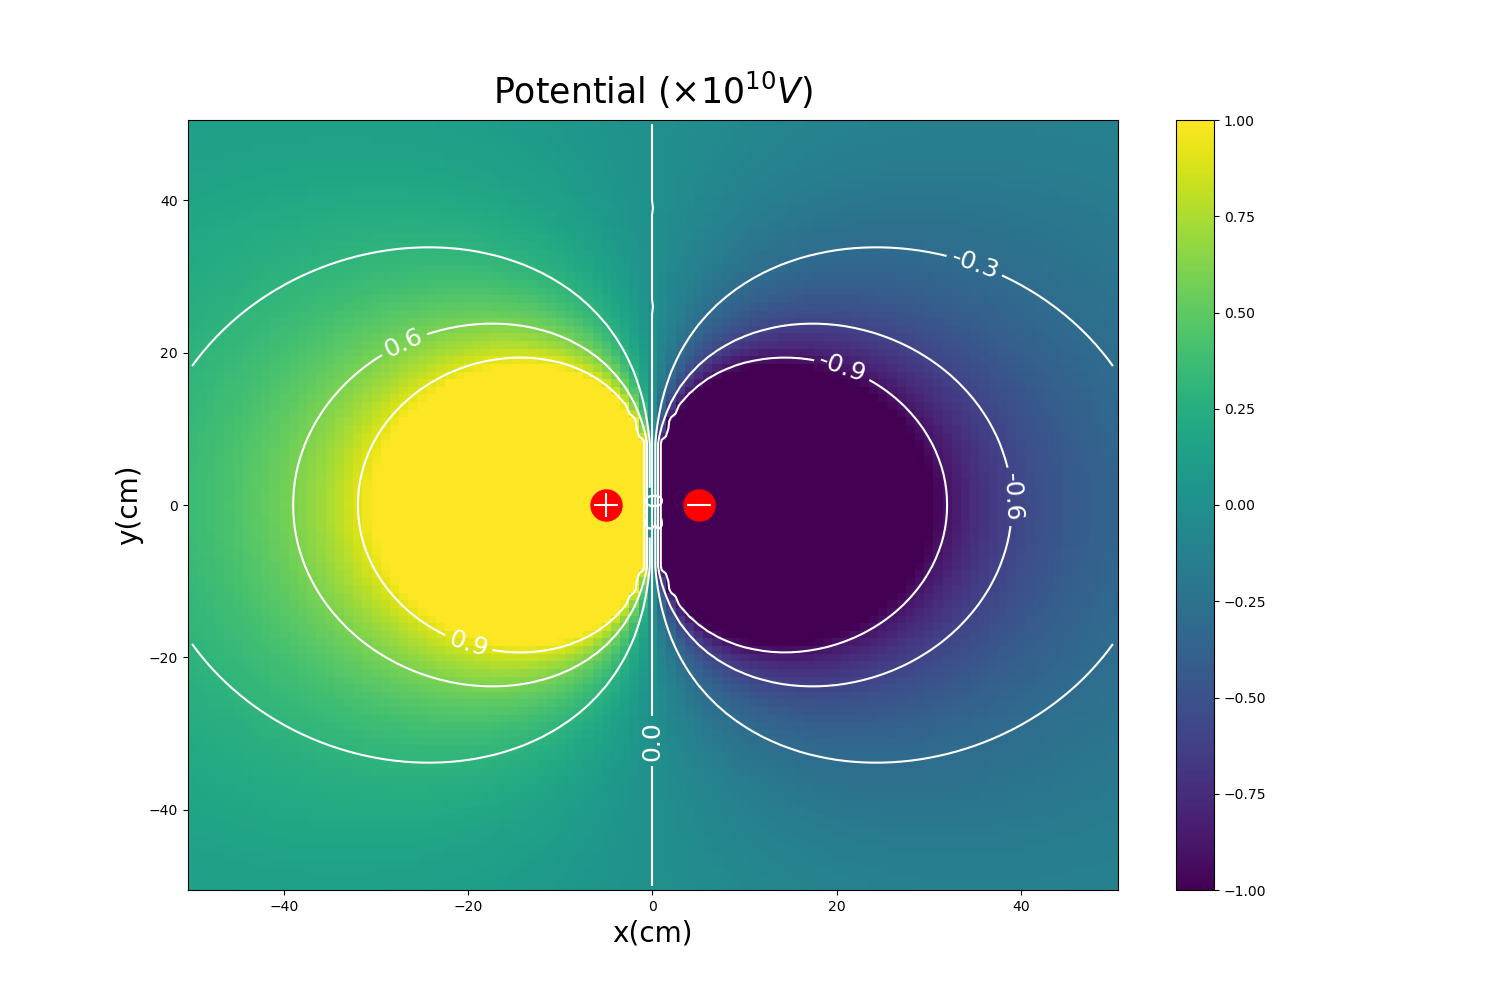
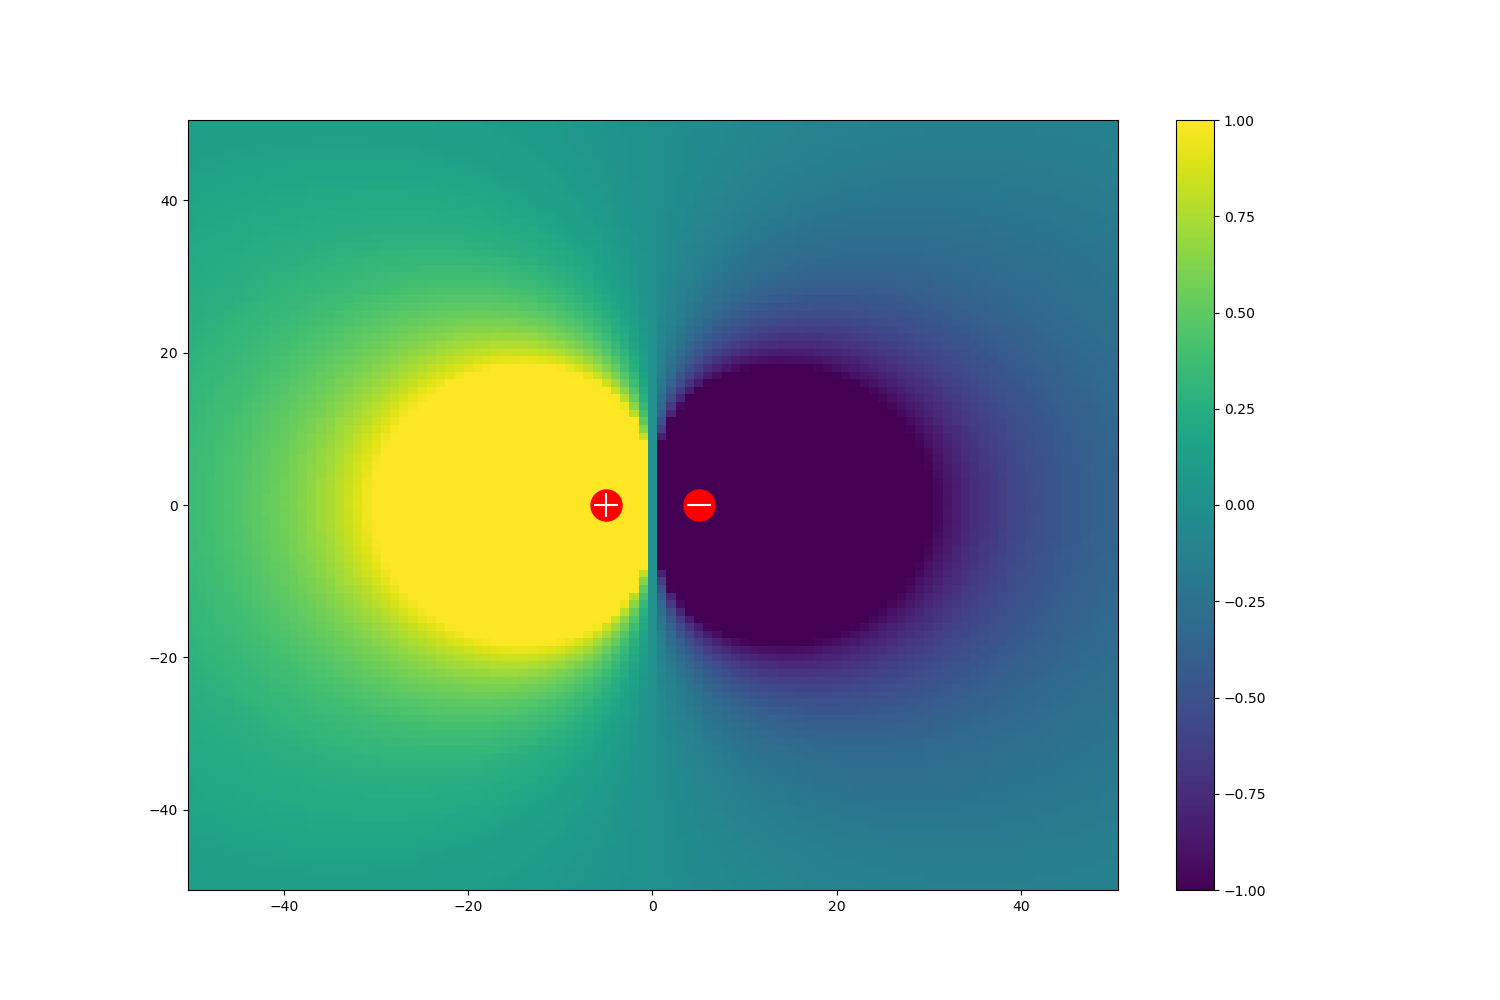
17

diff --git a/Assignments/HW2/Ques17/Q17.py b/Assignments/HW2/Ques17/Q17.py
@@ -3,22 +3,117 @@ from matplotlib import pyplot as plt
 import sys, os
 from scipy.constants import epsilon_0
 sys.path.append(os.path.abspath("."))
-from Packages.Integration import GaussQuad
+from Packages.Integration import GaussQuad2d
+from Packages.differentiation import gradient
+
 
 e0 = epsilon_0
 pi = np.pi
 
+
 def phi(x,y,q,x0,y0):
-    r = np.sqrt((x-x0)**2+(y-y0)**2)
-    return (q/(4*pi*e0*r))
+    return (q/(4*pi*e0*np.sqrt((x-x0)**2+(y-y0)**2)))
 
 x = np.arange(-0.5,0.5,0.01)
 y = np.arange(-0.5,0.5,0.01)
 xm, ym = np.meshgrid(x,y)
 
-phi1 = phi(xm,ym,1,0.05,0)
-phi2 = phi(xm,ym,-1,-0.05,0)
-total = phi1 + phi2
+phi1 = phi(xm,ym,-1,-0.05,0)
+phi2 = phi(xm,ym,1,0.05,0)
+total = (phi1+phi2)*1e-10
 
-plt.pcolormesh(100*x,100*y, total)
+plt.pcolormesh(100*x,100*y,total,vmax = 1, vmin = -1) 
+#x,y in cm 
+#potential in units of 0.1nV
 plt.colorbar()
+
+plt.xlabel('x(cm)')
+plt.ylabel('y(cm)')
+plt.title(r'Potential in units of 0.1nV')
+
+plt.scatter([-5],[0],c='b',marker='o',s=100)
+plt.scatter([-5],[0],c='w',marker='_',s=50)
+plt.scatter([5],[0],c='r',marker='o',s=100)
+plt.scatter([5],[0],c='w',marker='+',s=50)
+plt.savefig('Ques17/Q17(i).png')
+plt.show()
+
+grad = gradient(total,0.01,0.01)
+Ex = -grad[:,:,1]
+Ey = -grad[:,:,0]
+# Ex = np.piecewise(Ex,[Ex>=1,Ex<=-1],[1,-1,lambda Ex: Ex])
+# Ey = np.piecewise(Ey,[Ey>=1,Ey<=-1],[1,-1,lambda Ey: Ey])
+
+
+plt.streamplot(x*100,y*100,Ex,Ey,color='white')
+plt.pcolormesh(x*100,y*100,np.sqrt(Ex**2+Ey**2),vmax=10,vmin=0)    
+plt.colorbar()
+
+plt.xlabel('x(cm)')
+plt.ylabel('y(cm)')
+plt.title(r'Electric field in units of 0.1nV/m')
+plt.scatter([-5],[0],c='b',marker='o',s=100)
+plt.scatter([-5],[0],c='w',marker='_',s=50)
+plt.scatter([5],[0],c='r',marker='o',s=100)
+plt.scatter([5],[0],c='w',marker='+',s=50)
+plt.savefig('Ques17/Q17(ii).png')
+plt.show()
+plt.show()
+
+L = 0.1
+k = 2*np.pi/L
+sigma = lambda x,y : 100*np.sin(k*x)*np.sin(k*y)
+
+def phi(x,y,sigma):
+    Integrand = lambda x0,y0: sigma(x0,y0)/(4*pi*e0*np.sqrt((x-x0)**2+(y-y0)**2))
+    Integral = GaussQuad2d(-L/2,L/2,99,Integrand)
+    return Integral
+
+# def phi(x,y,sigma):
+#     I = lambda xp,yp:sigma(xp,yp)/np.sqrt((x-xp)**2+(y-yp)**2)
+#     return (1./(4*np.pi*e0))*GaussQuad2d(I,[-L/2.,-L/2.],[L/2.,L/2.],[N,N])
+
+
+
+total = np.zeros((len(y),len(x)))
+for i in range(len(x)):
+    for j in range(len(y)):
+        total[j,i] = phi(x[i],y[j],sigma)*1e-9
+
+plt.pcolormesh(100*x,100*y,total,vmax = 0.5, vmin = -0.5) 
+#x,y in cm 
+#potential in units of 0.1nV
+plt.colorbar()
+
+plt.xlabel('x(cm)')
+plt.ylabel('y(cm)')
+plt.title(r'Potential in units of nV')
+
+plt.scatter([-5],[0],c='b',marker='o',s=100)
+plt.scatter([-5],[0],c='w',marker='_',s=50)
+plt.scatter([5],[0],c='r',marker='o',s=100)
+plt.scatter([5],[0],c='w',marker='+',s=50)
+plt.savefig('Ques17/Q17(iii).png')
+plt.show()
+
+grad = gradient(total,0.01,0.01)
+Ex = -grad[:,:,1]
+Ey = -grad[:,:,0]
+# Ex = np.piecewise(Ex,[Ex>=1,Ex<=-1],[1,-1,lambda Ex: Ex])
+# Ey = np.piecewise(Ey,[Ey>=1,Ey<=-1],[1,-1,lambda Ey: Ey])
+
+
+plt.streamplot(x*100,y*100,Ex,Ey,color='white')
+plt.pcolormesh(x*100,y*100,np.sqrt(Ex**2+Ey**2),vmax=10,vmin=0)    
+plt.colorbar()
+
+plt.xlabel('x(cm)')
+plt.ylabel('y(cm)')
+plt.title(r'Electric field in units of nV/m')
+plt.scatter([-5],[0],c='b',marker='o',s=100)
+plt.scatter([-5],[0],c='w',marker='_',s=50)
+plt.scatter([5],[0],c='r',marker='o',s=100)
+plt.scatter([5],[0],c='w',marker='+',s=50)
+plt.savefig('Ques17/Q17(iv).png')
+plt.show()
+plt.show()
